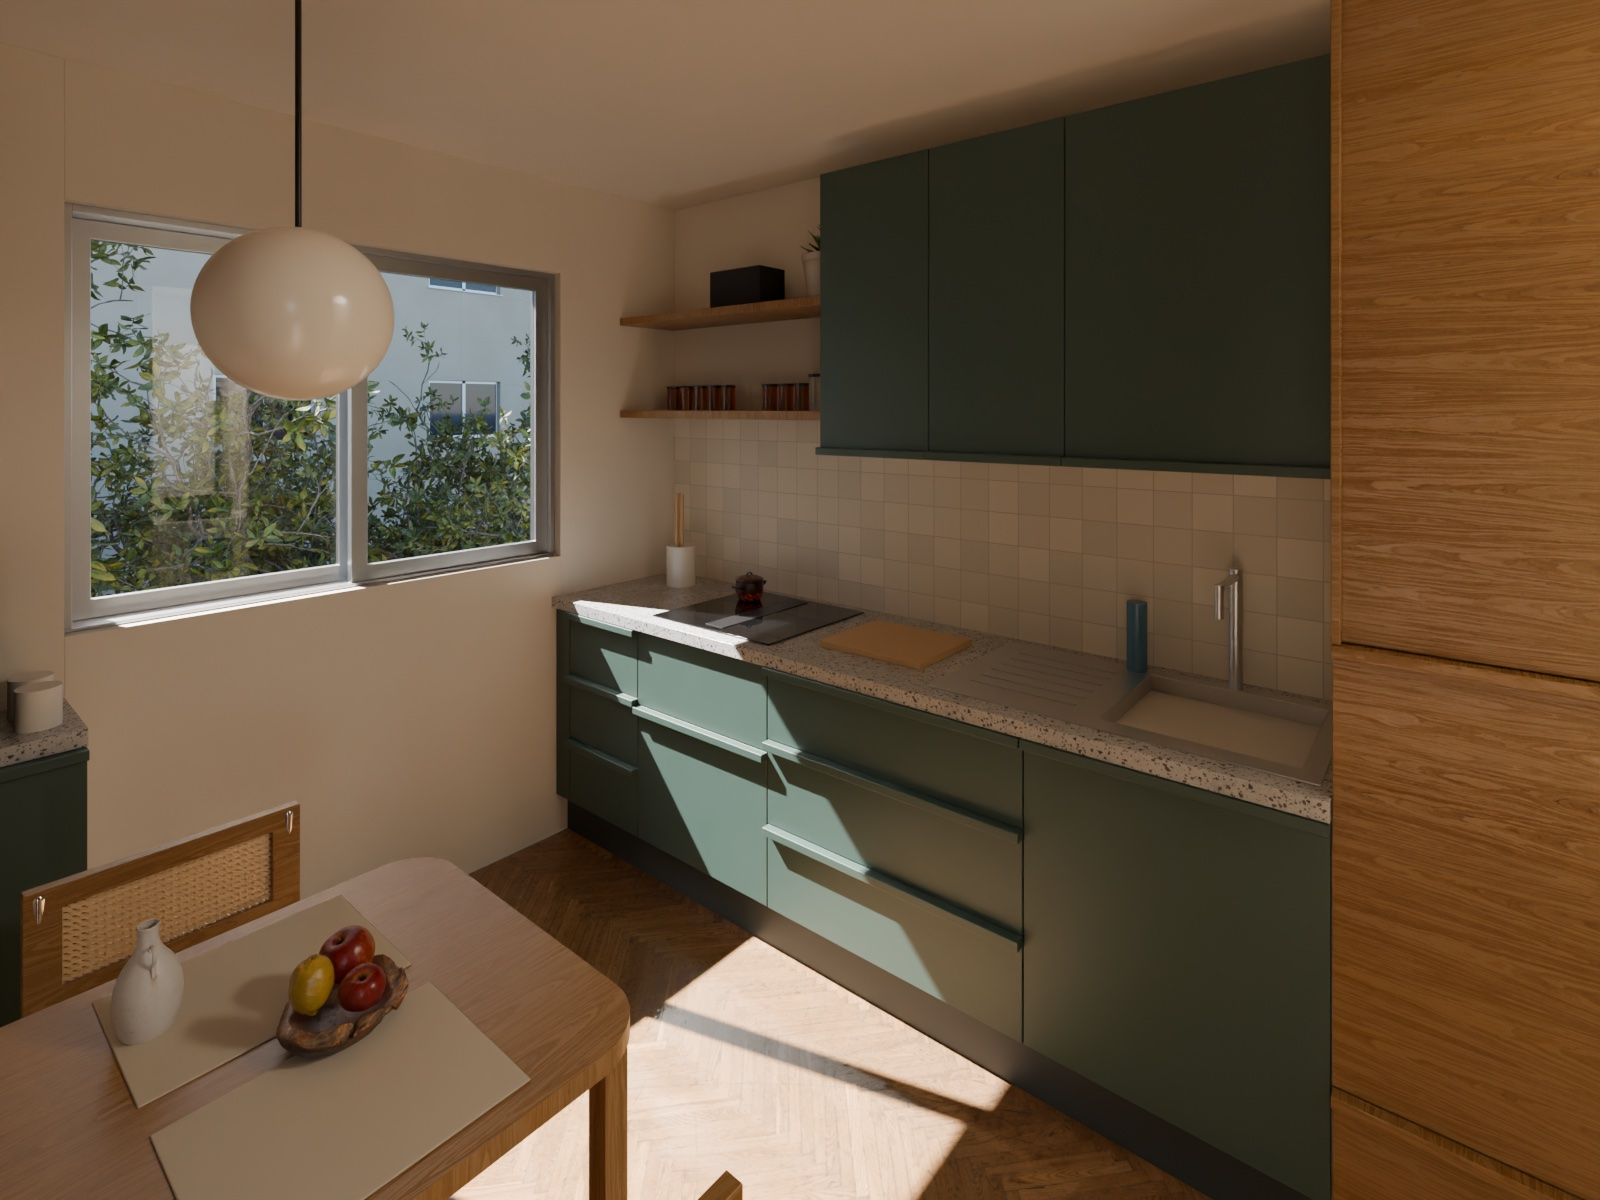
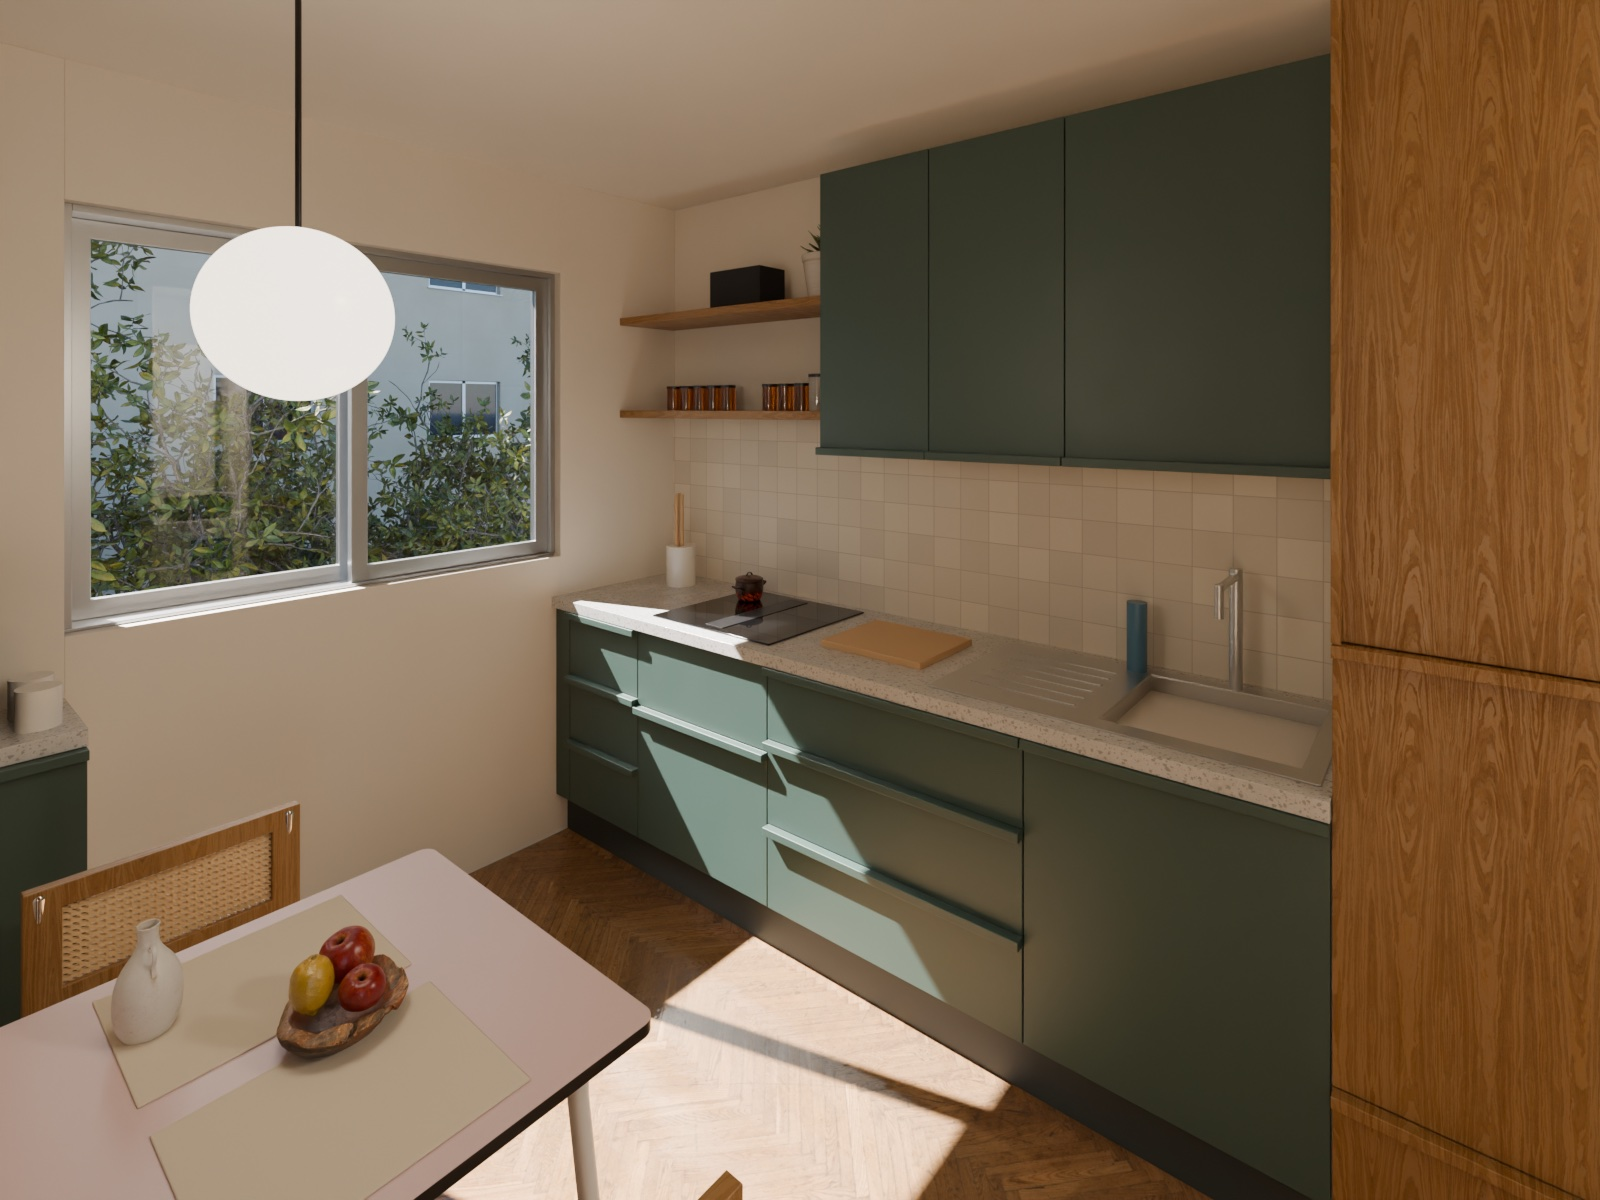
Rendus 3D V1.6 : chêne dans le bon sens, terrazzo adouci, suspension, table Véra

diff --git a/cuisine-3d.html b/cuisine-3d.html
@@ -65,9 +65,9 @@ code{font-family:"JetBrains Mono",ui-monospace,Menlo,monospace;font-size:13px}
 <header class="ph"><a href="index.html" aria-label="Retour aux plans">← Plans</a><span>Rendus 3D cuisine</span></header>
 <!-- /page-header -->
 <main>
-  <div class="kicker">Variante A · V1.5 · FreeCAD + Blender</div>
+  <div class="kicker">Variante A · V1.6 · FreeCAD + Blender</div>
   <h1>Rendus 3D cuisine</h1>
-  <p class="lead">Modèle 3D construit dans FreeCAD à partir des cotes du plan et des coupes (variante A, table carrée 70 × 70), rendu dans Blender (Cycles). Meubles bas et hauts Canopée (vert profond de Plum Living), meubles toute hauteur, étagères et chaises en chêne miel, poignées profilées toute longueur dans la teinte de la façade, plan terrazzo gris, crédence zellige ivoire, parquet bâtons rompus.</p>
+  <p class="lead">Modèle 3D construit dans FreeCAD à partir des cotes du plan et des coupes (variante A, table carrée 70 × 70 type Véra), rendu dans Blender (Cycles). Meubles bas et hauts Canopée (vert profond de Plum Living), meubles toute hauteur, étagères et chaises en chêne miel, poignées profilées toute longueur dans la teinte de la façade, plan terrazzo gris clair à éclats adoucis, table rétro type Véra rose poudré, suspension allumée, crédence zellige ivoire, parquet bâtons rompus.</p>
   <div class="opts">
     <div class="seg" role="group" aria-label="Teinte"><button type="button" data-teinte="-canopee" aria-pressed="true">Canopée · chêne miel</button><button type="button" data-teinte="" aria-pressed="false">Sauge · noyer</button><button type="button" data-teinte="-fonce" aria-pressed="false">Vert foncé · noyer</button></div>
     <div class="seg" role="group" aria-label="Décoration"><button type="button" data-deco="1" aria-pressed="true">Avec déco</button><button type="button" data-deco="0" aria-pressed="false">Sans déco</button></div>
@@ -76,35 +76,36 @@ code{font-family:"JetBrains Mono",ui-monospace,Menlo,monospace;font-size:13px}
 
   <section class="view">
     <div class="head"><div><h2>Depuis l'entrée, vers le nord-ouest</h2><p class="sub">Rangée nord, étagères ouvertes, fenêtre coulissante, coin repas.</p></div></div>
-    <a class="stage" href="cuisine-3d/rendu-entree-deco-canopee.jpg?v=1.5" target="_blank" data-v="entree"><img class="main r3d" src="cuisine-3d/rendu-entree-deco-canopee.jpg?v=1.5" data-v="entree" alt="Rendu 3D, depuis l'entrée, vers le nord-ouest" loading="lazy"></a>
+    <a class="stage" href="cuisine-3d/rendu-entree-deco-canopee.jpg?v=1.6" target="_blank" data-v="entree"><img class="main r3d" src="cuisine-3d/rendu-entree-deco-canopee.jpg?v=1.6" data-v="entree" alt="Rendu 3D, depuis l'entrée, vers le nord-ouest" loading="lazy"></a>
   </section>
 
   <section class="view">
     <div class="head"><div><h2>Depuis la fenêtre, vers l'est</h2><p class="sub">Colonnes toute hauteur : frigo, four et micro-ondes ; porte du cellier ouverte, porte d'entrée à étagères et ardoise.</p></div></div>
-    <a class="stage" href="cuisine-3d/rendu-fenetre-deco-canopee.jpg?v=1.5" target="_blank" data-v="fenetre"><img class="main r3d" src="cuisine-3d/rendu-fenetre-deco-canopee.jpg?v=1.5" data-v="fenetre" alt="Rendu 3D, depuis la fenêtre, vers l'est" loading="lazy"></a>
+    <a class="stage" href="cuisine-3d/rendu-fenetre-deco-canopee.jpg?v=1.6" target="_blank" data-v="fenetre"><img class="main r3d" src="cuisine-3d/rendu-fenetre-deco-canopee.jpg?v=1.6" data-v="fenetre" alt="Rendu 3D, depuis la fenêtre, vers l'est" loading="lazy"></a>
   </section>
 
   <section class="view">
     <div class="head"><div><h2>Depuis le seuil du cellier</h2><p class="sub">Étagères P30, râtelier à balais, lave-linge devant le ballon.</p></div></div>
-    <a class="stage" href="cuisine-3d/rendu-cellier-deco-canopee.jpg?v=1.5" target="_blank" data-v="cellier"><img class="main r3d" src="cuisine-3d/rendu-cellier-deco-canopee.jpg?v=1.5" data-v="cellier" alt="Rendu 3D, depuis le seuil du cellier" loading="lazy"></a>
+    <a class="stage" href="cuisine-3d/rendu-cellier-deco-canopee.jpg?v=1.6" target="_blank" data-v="cellier"><img class="main r3d" src="cuisine-3d/rendu-cellier-deco-canopee.jpg?v=1.6" data-v="cellier" alt="Rendu 3D, depuis le seuil du cellier" loading="lazy"></a>
   </section>
 
   <section class="view">
     <div class="head"><div><h2>Assis à table</h2><p class="sub">Sur la chaise côté four, regard vers la fenêtre et la rangée nord.</p></div></div>
-    <a class="stage" href="cuisine-3d/rendu-assis-deco-canopee.jpg?v=1.5" target="_blank" data-v="assis"><img class="main r3d" src="cuisine-3d/rendu-assis-deco-canopee.jpg?v=1.5" data-v="assis" alt="Rendu 3D, assis à table" loading="lazy"></a>
+    <a class="stage" href="cuisine-3d/rendu-assis-deco-canopee.jpg?v=1.6" target="_blank" data-v="assis"><img class="main r3d" src="cuisine-3d/rendu-assis-deco-canopee.jpg?v=1.6" data-v="assis" alt="Rendu 3D, assis à table" loading="lazy"></a>
   </section>
 
   <section class="view">
     <div class="head"><div><h2>Vue plongeante</h2><p class="sub">Plafond retiré : l'ensemble cuisine et cellier.</p></div></div>
-    <a class="stage" href="cuisine-3d/rendu-plongee-deco-canopee.jpg?v=1.5" target="_blank" data-v="plongee"><img class="main r3d" src="cuisine-3d/rendu-plongee-deco-canopee.jpg?v=1.5" data-v="plongee" alt="Rendu 3D, vue plongeante" loading="lazy"></a>
+    <a class="stage" href="cuisine-3d/rendu-plongee-deco-canopee.jpg?v=1.6" target="_blank" data-v="plongee"><img class="main r3d" src="cuisine-3d/rendu-plongee-deco-canopee.jpg?v=1.6" data-v="plongee" alt="Rendu 3D, vue plongeante" loading="lazy"></a>
   </section>
 
   <section class="view">
     <h2>À savoir</h2>
     <ul class="facts">
-      <li>Trois teintes pour les meubles bas et hauts : Canopée #3C524C (<a href="https://plum-living.com/fr/products/1313-00S-L">laque mate Plum Living</a>) avec le chêne miel et le terrazzo gris ; et, dans les rendus V1.4 archivés, sauge #8D9B80 (celle des <a href="cuisine-rendus.html">rendus Gemini</a>) avec le terrazzo clair, ou vert foncé #5E6E55 avec un terrazzo gris, toutes deux avec le noyer.</li>
+      <li>Trois teintes pour les meubles bas et hauts : Canopée #3C524C (<a href="https://plum-living.com/fr/products/1313-00S-L">laque mate Plum Living</a>) avec le chêne miel, un terrazzo gris clair aux éclats adoucis et la suspension allumée ; et, dans les rendus V1.4 archivés, sauge #8D9B80 (celle des <a href="cuisine-rendus.html">rendus Gemini</a>) avec le terrazzo clair, ou vert foncé #5E6E55 avec un terrazzo gris, toutes deux avec le noyer.</li>
+      <li>Table de type <a href="https://www.lesgambettes.fr/tables-2-personnes/285-table-retro-vera-carree-70x70-stratifie-uni-rose-poudre-pieds-blancs-3701567202827.html">Véra carrée 70 × 70 (Les Gambettes)</a> : stratifié rose poudré à chant noir, pieds en tube d'acier laqué blanc ; elle n'apparaît que dans la teinte Canopée.</li>
       <li>Vue par la fenêtre : cuisine au 2ᵉ étage, rue plantée d'arbres et immeuble en face, à 12 m, aux mêmes fenêtres.</li>
-      <li>Lumière du jour seule : soleil calculé pour le 21 juin à 17 h (heure d'été) à Paris, 45° de hauteur, venant de l'ouest-sud-ouest par la fenêtre ; ciel physique ; lampes de la cuisine éteintes.</li>
+      <li>Lumière du jour seule : soleil calculé pour le 21 juin à 17 h (heure d'été) à Paris, 45° de hauteur, venant de l'ouest-sud-ouest par la fenêtre ; ciel physique ; lampes de la cuisine éteintes, sauf la suspension au-dessus de la table dans la teinte Canopée.</li>
       <li>Vues prises à hauteur d'yeux d'une personne de 1,75 m : 1,63 m debout, 1,20 m assise ; la vue plongeante fait exception.</li>
       <li>Les cotes sont recopiées du plan à la main : une modification de <a href="cuisine-plan.html">cuisine-plan.html</a> ne passe pas encore dans la 3D.</li>
       <li>Textures, arbres et objets de décoration CC0 : Poly Haven (noyer, chêne, parquet, arbres, vase, bol, fruits, livres, plante, paniers, cartons, balai) et ambientCG (terrazzo). Chaises de type Cesca, zellige et cannage modélisés. La décoration est indicative.</li>
@@ -117,6 +118,7 @@ code{font-family:"JetBrains Mono",ui-monospace,Menlo,monospace;font-size:13px}
     <table>
       <thead><tr><th>Version</th><th>Date</th><th>Changements</th></tr></thead>
       <tbody>
+        <tr><td><b>V1.6</b></td><td>05/10/2026</td><td>Teinte Canopée : fil du chêne miel remis à la verticale sur les façades ; terrazzo gris aux éclats éclaircis ; suspension au-dessus de la table allumée ; table rétro type Véra (stratifié rose poudré, pieds blancs) à la place de la table en bois. Rendus V1.5 archivés.</td></tr>
         <tr><td><b>V1.5</b></td><td>05/10/2026</td><td>Nouvelle teinte Canopée #3C524C (Plum Living) avec chêne miel pour les meubles toute hauteur, étagères, portes, table et chaises, terrazzo gris ; rendue avec décoration seulement. Les rendus V1.4 (sauge et vert foncé, noyer) sont archivés et restent accessibles par le sélecteur.</td></tr>
         <tr><td><b>V1.4</b></td><td>05/10/2026</td><td>Variante vert foncé #5E6E55 + terrazzo gris (sélecteur de teinte) ; vue au 2ᵉ étage : rue, arbres et immeuble en face aux mêmes fenêtres (le panorama est retiré) ; fenêtre, appui et dormant en aluminium ; liseré noir sous la fenêtre et autour de l'évier corrigé (faces confondues) ; images versionnées pour éviter l'ancien cache du navigateur.</td></tr>
         <tr><td><b>V1.3</b></td><td>05/10/2026</td><td>Plus photo-réaliste : arêtes arrondies (2 mm), panorama d'immeubles par la fenêtre, objets de décoration remplacés par de vrais modèles 3D, chaises de type Cesca (tube chromé, noyer, cannage), textures plaquées en UV avec relief, enduit des murs, zellige à joints, laque à brillance irrégulière ; parquet tourné de 90° ; réglages Cycles (rebonds, débruitage, échantillonnage adaptatif, 256 échantillons).</td></tr>
@@ -129,7 +131,7 @@ code{font-family:"JetBrains Mono",ui-monospace,Menlo,monospace;font-size:13px}
 </main>
 <script>
 (() => {
-  const V = '1.5';  // version des images : change à chaque publication pour contourner le cache du navigateur
+  const V = '1.6';  // version des images : change à chaque publication pour contourner le cache du navigateur
   const ARCHIVE = { '': 'archives/v1.4/', '-fonce': 'archives/v1.4/' };  // teintes des rendus archivés
   const DECO_SEULE = ['-canopee'];  // teintes rendues avec décoration uniquement
   const state = { deco: '1', teinte: '-canopee' };

diff --git a/3d/rendu.py b/3d/rendu.py
@@ -27,20 +27,23 @@ MOD = os.path.join(HERE, "modeles")
 args = sys.argv[sys.argv.index("--") + 1:] if "--" in sys.argv else []
 SAMPLES = next((int(a) for a in args if a.isdigit()), 256)
 # Essences des meubles toute hauteur, étagères, portes et chaises : texture, couleur de repli, (saturation, valeur)
+# Fil de la texture : « u » horizontal dans l'image (noyer), « v » vertical (chêne) ; sert à orienter le fil sur les meubles.
 BOIS = {
-    "noyer": ("noyer", "#45291A", (1.25, 0.36)),    # noyer huilé, foncé
-    "chene": ("chene", "#A8743F", (1.15, 0.72)),    # chêne miel (façades Plum Living)
+    "noyer": ("noyer", "#45291A", (1.25, 0.36), "u"),    # noyer huilé, foncé
+    "chene": ("chene", "#A8743F", (1.15, 0.72), "v"),    # chêne miel (façades Plum Living)
 }
-# Variantes de teintes : (couleur des meubles bas et hauts, saturation et valeur du terrazzo, suffixe des fichiers, bois)
+# Variantes de teintes : (couleur des meubles bas et hauts, terrazzo (saturation, valeur, éclats éclaircis 0–1),
+# suffixe des fichiers, bois, lampes allumées)
 VARIANTES = {
-    "sauge": ("#8D9B80", (1.0, 1.0), "", "noyer"),             # sauge des rendus Gemini, terrazzo clair d'origine
-    "fonce": ("#5E6E55", (0.0, 0.82), "-fonce", "noyer"),      # vert plus foncé, terrazzo gris
-    "canopee": ("#3C524C", (0.0, 0.82), "-canopee", "chene"),  # Canopée Plum Living, terrazzo gris, chêne miel
+    "sauge": ("#8D9B80", (1.0, 1.0, 0.0), "", "noyer", ()),             # sauge des rendus Gemini, terrazzo clair d'origine
+    "fonce": ("#5E6E55", (0.0, 0.82, 0.0), "-fonce", "noyer", ()),      # vert plus foncé, terrazzo gris
+    # Canopée Plum Living, chêne miel, terrazzo gris à éclats clairs, suspension allumée
+    "canopee": ("#3C524C", (0.0, 0.9, 0.45), "-canopee", "chene", ("suspension",)),
 }
 VERSIONS = [a for a in args if a in ("sans", "deco")] or ["sans", "deco"]
 TEINTES = [a for a in args if a in VARIANTES] or list(VARIANTES)
 VUES = [a for a in args if not a.isdigit() and a not in ("sans", "deco") and a not in VARIANTES] or ["entree", "fenetre", "cellier", "assis", "plongee"]
-COULEUR_BAS, TEINTE_TERRAZZO, _, ESSENCE = VARIANTES["sauge"]   # remplacés pour chaque variante
+COULEUR_BAS, TEINTE_TERRAZZO, _, ESSENCE, LAMPES = VARIANTES["sauge"]   # remplacés pour chaque variante
 
 # Soleil : position calculée (lieu, date, heure légale). Azimut compté depuis le nord vers l'est.
 LIEU = (48.86, 2.35)                 # Paris (latitude, longitude)
@@ -49,7 +52,8 @@ UTC_DECALAGE = 2
 SOLEIL_FORCE = 60.0                  # W/m² Blender : rapport soleil / ciel d'une fin de journée claire
 CIEL_FORCE = 0.35                    # intensité du ciel physique (éclairage)
 EXPOSITION = -0.2                    # compensation d'exposition (IL)
-LAMPES = False                       # plein jour : plafonniers, réglette et suspension éteints (le cellier reste éclairé)
+# LAMPES (par variante) : lampes de la cuisine allumées parmi « suspension » et « plafonniers » (plafonniers et réglette) ;
+# le cellier, sans fenêtre, reste toujours éclairé.
 
 CHANFREIN = 0.002                    # arêtes arrondies : 2 mm, 2 segments
 
@@ -99,6 +103,8 @@ MATS = {
     "chaise":           ("#45291A", 0.5, NOYER),
     "porte_bois":       ("#45291A", 0.5, NOYER),
     "table":            ("#A87A4C", 0.45, dict(NOYER, sens="h", teinte=(1.2, 0.85))),
+    "stratifie":        ("#D9BDBB", 0.35, {}),                                # stratifié rose poudré (table Véra)
+    "epoxy_blanc":      ("#F2F0EC", 0.35, {}),                                # acier laqué époxy blanc
     "caisson":          ("#E9E5DC", 0.6, {}),
     "socle":            ("#2B3436", 0.6, {}),
     "plan":             ("#CFCDC7", 0.3, {"tex": "terrazzo", "sens": "bloc", "echelle": 0.6, "teinte": "terrazzo"}),
@@ -259,7 +265,7 @@ def make_material(key):
         col = COULEUR_BAS
     if opt.get("tex") == "noyer" and ESSENCE != "noyer":
         # autre essence : texture, couleur et teinte de la variante (la table garde son éclaircissement relatif)
-        tex, col, (sat, val) = BOIS[ESSENCE]
+        tex, col, (sat, val), _ = BOIS[ESSENCE]
         if opt is not NOYER and opt.get("teinte") != NOYER["teinte"]:
             sat, val = sat * opt["teinte"][0] / NOYER["teinte"][0], min(1.0, val * opt["teinte"][1] / NOYER["teinte"][1])
         opt = dict(opt, tex=tex, teinte=(sat, val))
@@ -286,9 +292,18 @@ def make_material(key):
         if "teinte" in opt:
             hsv = nt.nodes.new("ShaderNodeHueSaturation")
             teinte = TEINTE_TERRAZZO if opt["teinte"] == "terrazzo" else opt["teinte"]
-            hsv.inputs["Saturation"].default_value, hsv.inputs["Value"].default_value = teinte
+            hsv.inputs["Saturation"].default_value, hsv.inputs["Value"].default_value = teinte[:2]
             nt.links.new(out, hsv.inputs["Color"])
             out = hsv.outputs["Color"]
+            if len(teinte) > 2 and teinte[2]:
+                # éclats éclaircis : rapproche les éclats sombres de la teinte du fond (couleur de repli du matériau)
+                mix = nt.nodes.new("ShaderNodeMix")
+                mix.data_type = "RGBA"
+                mix.blend_type = "LIGHTEN"
+                mix.inputs["Factor"].default_value = teinte[2]
+                mix.inputs["B"].default_value = hexrgb(col)
+                nt.links.new(out, mix.inputs["A"])
+                out = mix.outputs["Result"]
         nt.links.new(out, bsdf.inputs["Base Color"])
         rgh = image(nt, name, "rough", vec, data=True)
         mul = nt.nodes.new("ShaderNodeMath")
@@ -555,11 +570,14 @@ def build_scene(glb, deco):
         o.data.materials.append(mats[key])
         opt = MATS.get(key, (None, None, {}))[2]
         if opt.get("tex"):
-            make_uvs(o, opt.get("sens", "bloc"), opt.get("echelle", 1.0))
-        smooth = key in ("globe", "feuillage", "fleurs", "fruits", "chrome", "tige")
+            sens = opt.get("sens", "bloc")
+            if opt["tex"] == "noyer" and BOIS[ESSENCE][3] == "v" and sens in ("v", "h"):
+                sens = "h" if sens == "v" else "v"   # fil vertical dans l'image : on croise la projection
+            make_uvs(o, sens, opt.get("echelle", 1.0))
+        smooth = key in ("globe", "feuillage", "fleurs", "fruits", "chrome", "tige", "epoxy_blanc")
         for poly in o.data.polygons:
             poly.use_smooth = smooth
-        if not smooth and key not in ("verre", "plafond", "credence", "cannage") and "__ext_" not in o.name:
+        if not smooth and key not in ("verre", "plafond", "credence", "cannage", "stratifie") and "__ext_" not in o.name:
             chanfreiner(o)
         if key == "verre":
             o.visible_shadow = False  # vitrage mince : laisse passer le soleil (pas de caustiques)
@@ -599,13 +617,14 @@ def build_scene(glb, deco):
 
     # cellier (sans fenêtre) éclairé ; plafonniers cuisine, réglette et suspension selon LAMPES
     area(p(375, 50, 248), 0.4, 45)
-    if not LAMPES:
+    if "plafonniers" in LAMPES:
+        for x, y in [(90, 110), (230, 140)]:
+            area(p(x, y, 248), 0.45, 60)
+        area(p(179, 28, 146.5), 1.3, 25, color=(1.0, 0.88, 0.72), shape="RECTANGLE", size_y=0.04)
+    if "suspension" not in LAMPES:
         for g in globes:
             g.active_material.node_tree.nodes["Principled BSDF"].inputs["Emission Strength"].default_value = 0.0
         return ceiling
-    for x, y in [(90, 110), (230, 140)]:
-        area(p(x, y, 248), 0.45, 60)
-    area(p(179, 28, 146.5), 1.3, 25, color=(1.0, 0.88, 0.72), shape="RECTANGLE", size_y=0.04)
     for g in globes:  # la suspension éclaire vraiment la table
         c = sum((g.matrix_world @ Vector(b) for b in g.bound_box), Vector()) / 8
         bpy.ops.object.light_add(type="POINT", location=c)
@@ -633,7 +652,7 @@ VIEWS = {
 }
 
 for teinte in TEINTES:
-    COULEUR_BAS, TEINTE_TERRAZZO, suffixe_teinte, ESSENCE = VARIANTES[teinte]
+    COULEUR_BAS, TEINTE_TERRAZZO, suffixe_teinte, ESSENCE, LAMPES = VARIANTES[teinte]
     for version in VERSIONS:
         suffix = ("-deco" if version == "deco" else "") + suffixe_teinte
         glb = "cuisine-a-deco.glb" if version == "deco" else "cuisine-a.glb"

diff --git a/3d/cuisine_a.py b/3d/cuisine_a.py
@@ -289,11 +289,28 @@ box("noir", "machine_cafe", 3, 27, 214, 246, 91, 131)
 
 
 def table_carree():
-    top = Part.makeBox(700, 700, 30, V(1080, -2300, 720))
-    top = top.makeFillet(98, [e for e in top.Edges if abs(e.Vertexes[0].Point.z - e.Vertexes[1].Point.z) > 1])
-    _add("table", "plateau", top, ("rect", (108, 160, 178, 230)))
-    for i, (x, y) in enumerate([(111, 163), (171, 163), (111, 223), (171, 223)]):
-        box("table", f"pied_{i + 1}", x, x + 4, y, y + 4, 0, 72, plan=False)
+    """Table rétro type Véra (Les Gambettes) 70 × 70 × H 75 : plateau MDF 19 mm à chant noir, stratifié rose poudré,
+    quatre pieds en tube d'acier Ø 3 laqué blanc, verticaux sous le plateau puis inclinés vers l'extérieur."""
+    x0, y0, cote = 108, 160, 70
+
+    def plateau(z0, z1):
+        t = Part.makeBox(cote * 10, cote * 10, (z1 - z0) * 10, V(x0 * 10, -(y0 + cote) * 10, z0 * 10))
+        return t.makeFillet(25, [e for e in t.Edges if abs(e.Vertexes[0].Point.z - e.Vertexes[1].Point.z) > 0.5])
+
+    _add("noir", "table_chant", plateau(73.1, 74.9), ("rect", (x0, y0, x0 + cote, y0 + cote)))
+    _add("stratifie", "table_plateau", plateau(74.9, 75.0), None)
+    _add("epoxy_blanc", "table_traverse", solid(x0 + 6, x0 + cote - 6, y0 + 6, y0 + cote - 6, 70, 73.1).cut(
+        solid(x0 + 8, x0 + cote - 8, y0 + 8, y0 + cote - 8, 69, 74)), None)
+    r = 15  # rayon du tube (mm)
+    for i, (sx, sy) in enumerate(((-1, -1), (1, -1), (-1, 1), (1, 1))):
+        cx, cy = x0 + cote / 2, y0 + cote / 2
+        haut = V((cx + sx * 27) * 10, -(cy + sy * 27) * 10, 731)   # sous le plateau, 8 cm du bord
+        coude = V((cx + sx * 27) * 10, -(cy + sy * 27) * 10, 640)
+        pied = V((cx + sx * 31.5) * 10, -(cy + sy * 31.5) * 10, 8)  # au sol, 3,5 cm du bord
+        for n, (a, b) in enumerate(((haut, coude), (coude, pied))):
+            _add("epoxy_blanc", f"table_pied_{i + 1}_{n}", Part.makeCylinder(r, (b - a).Length, a, b - a), None)
+        _add("epoxy_blanc", f"table_coude_{i + 1}", Part.makeSphere(r, coude), None)
+        _add("noir", f"table_patin_{i + 1}", Part.makeCylinder(r, 8, pied - V(0, 0, 8), V(0, 0, 1)), None)
 
 
 table_carree()
